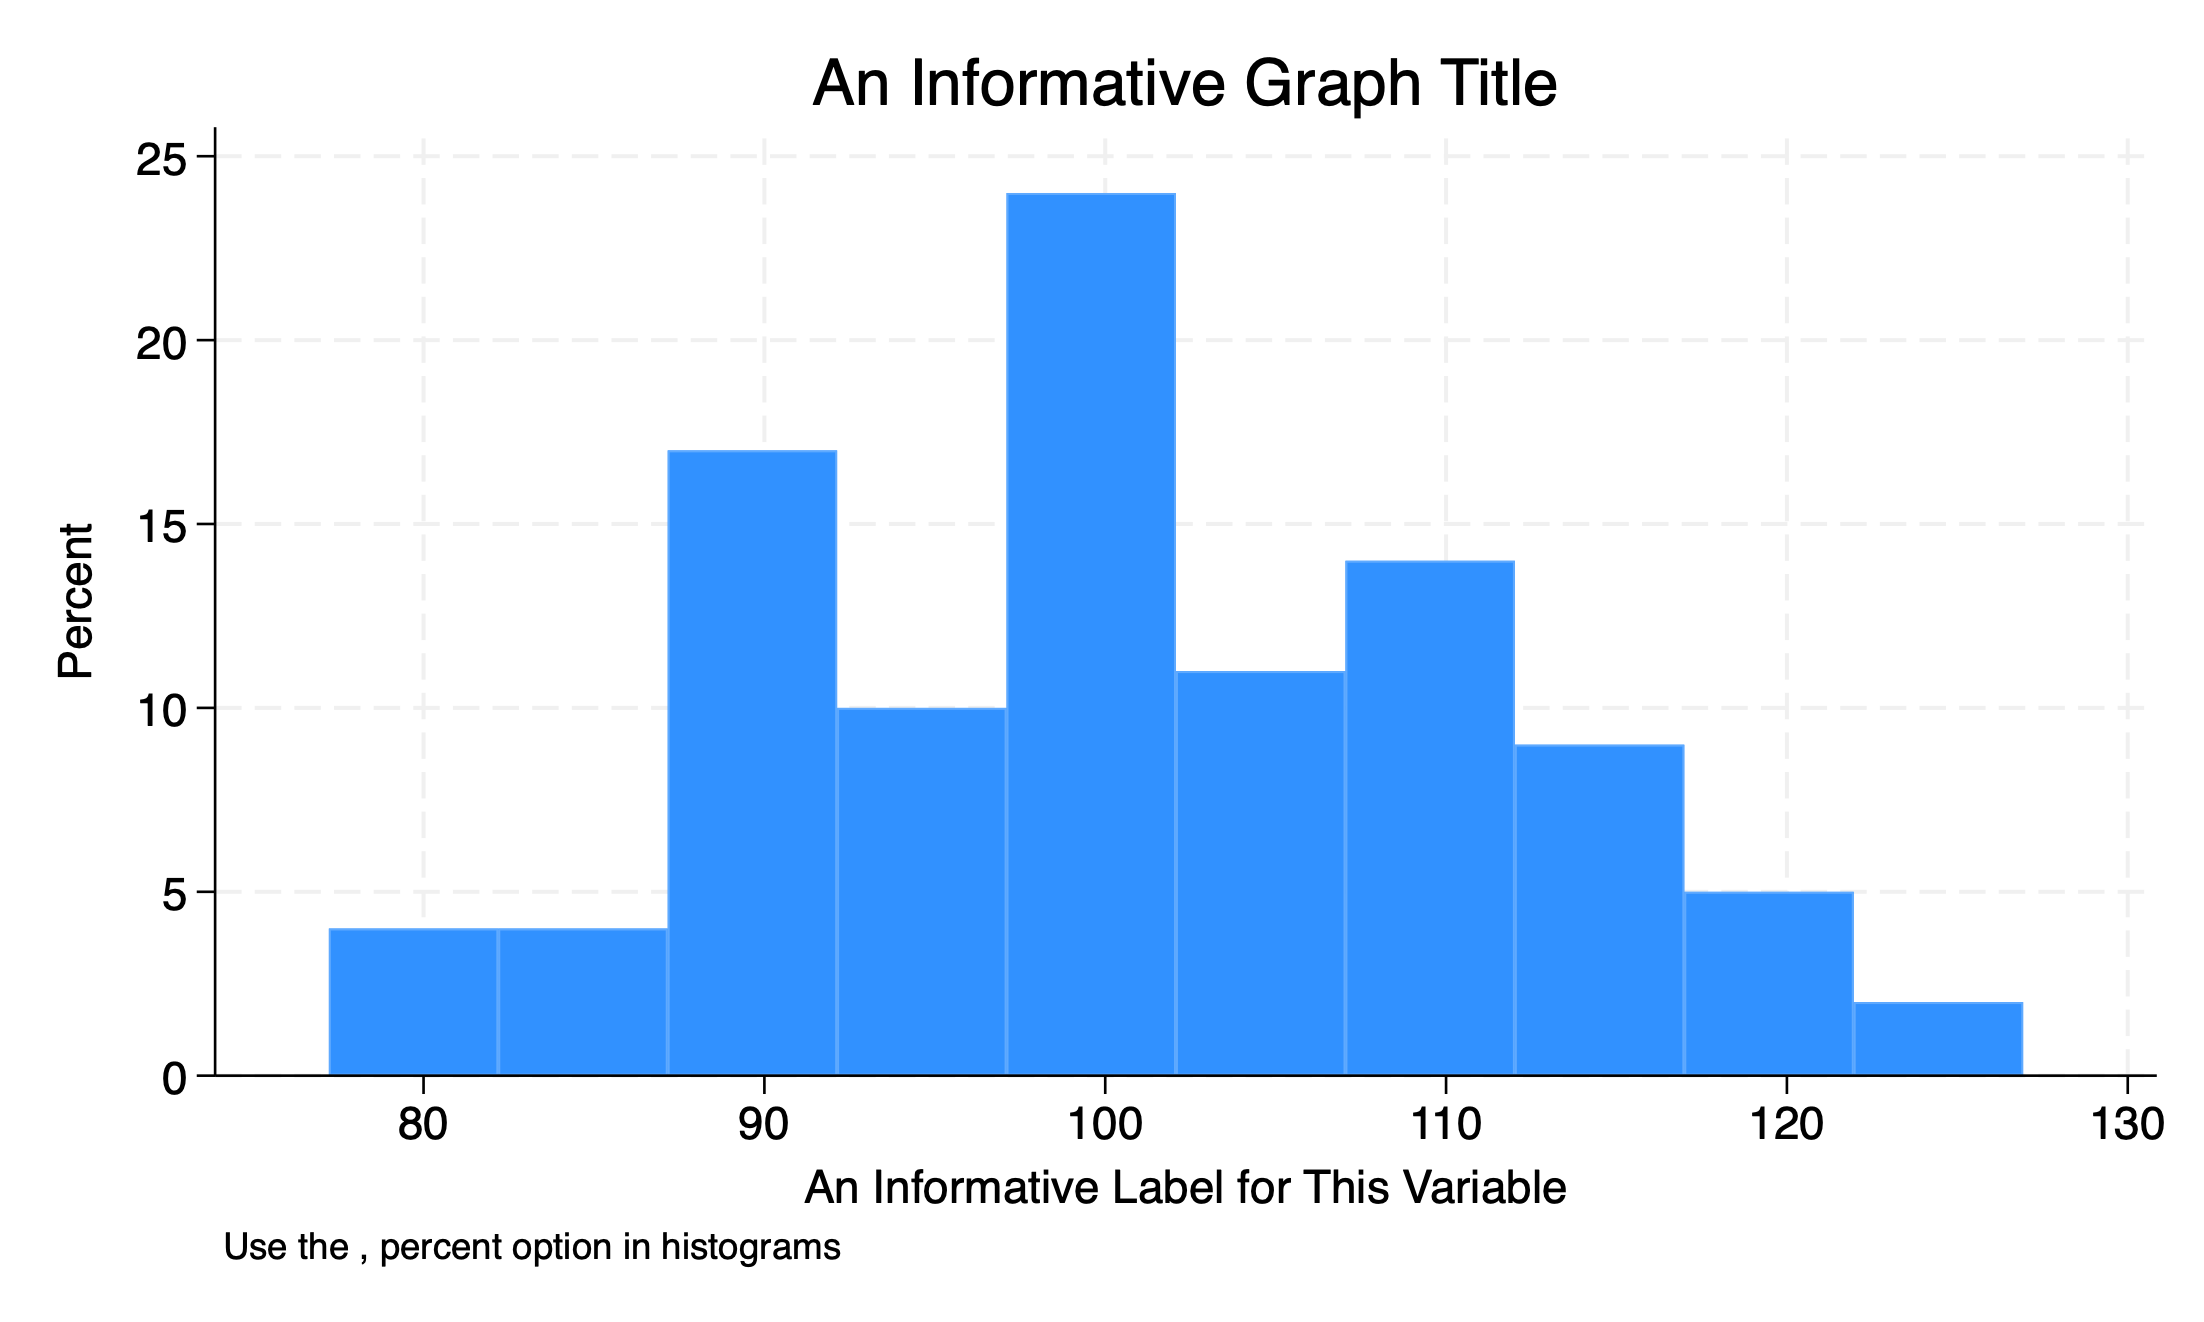
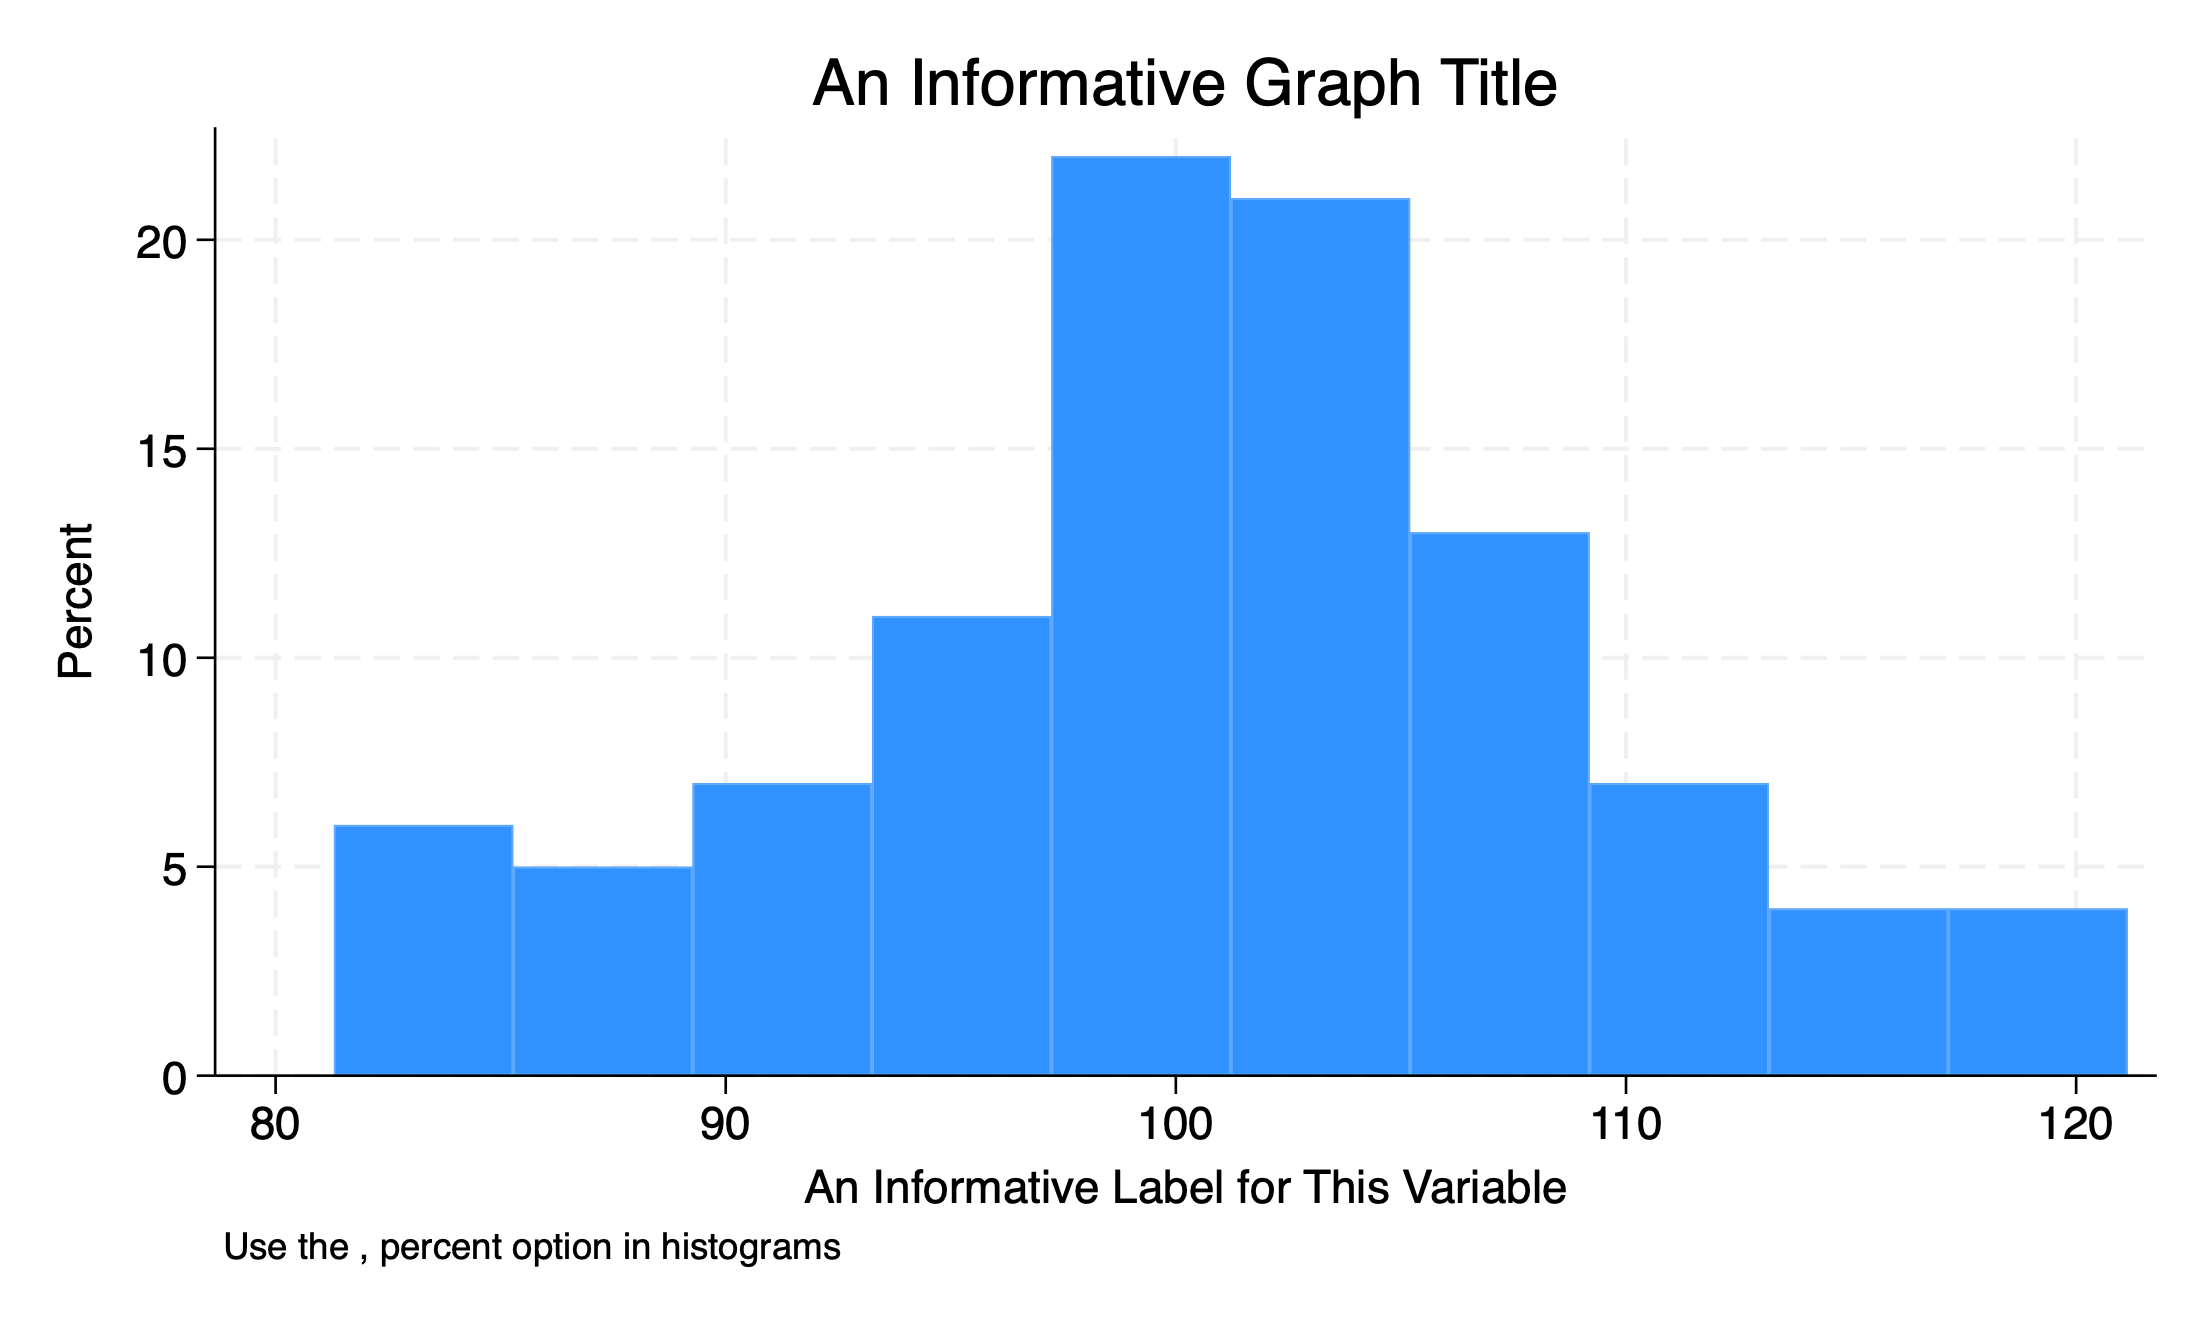
re-render w Stata and Statamarkdown

diff --git a/paper-template/cross-sectional-multilevel.html b/paper-template/cross-sectional-multilevel.html
@@ -188,13 +188,13 @@ ul.task-list li input[type="checkbox"] {
 <div class="cell-output cell-output-stdout">
 <pre><code>    Variable |        Obs        Mean    Std. dev.       Min        Max
 -------------+---------------------------------------------------------
-           x |        100    100.5775     10.4609   77.22126   126.9314
-           y |        100    107.5587    15.04167   75.46601   143.6488
+           x |        100    100.8225     8.71197    81.2936   121.1466
+           y |        100    107.6816    13.22501   69.53086   145.2771
 
           z |      Freq.     Percent        Cum.
 ------------+-----------------------------------
-          0 |         62       62.00       62.00
-          1 |         38       38.00      100.00
+          0 |         52       52.00       52.00
+          1 |         48       48.00      100.00
 ------------+-----------------------------------
       Total |        100      100.00</code></pre>
 </div>
@@ -211,12 +211,12 @@ ul.task-list li input[type="checkbox"] {
 <figcaption class="figure-caption">A scatterplot and linear fit</figcaption>
 </figure>
 </div>
-<p>What is the influence of each predictor variable in your relationship in terms of <span class="math inline">\(\beta\)</span> and p value? Please compute the unconditional intra-class correlation coefficient as part of your results.</p>
+<p>What is the influence of each predictor variable in your relationship in terms of <span class="math inline">\(\beta\)</span> and p value? <span style="color:red;">Please compute the unconditional intra-class correlation coefficient as part of your results.</span></p>
 <div class="cell">
 <div class="cell-output cell-output-stdout">
 <pre><code>Performing EM optimization Performing gradient-based optimization: 
-Iteration 0:  Log likelihood = -371.04347  
-Iteration 1:  Log likelihood = -371.04347  
+Iteration 0:  Log likelihood = -369.49222  
+Iteration 1:  Log likelihood = -369.49222  
 
 Computing standard errors ...
 
@@ -226,26 +226,26 @@ Group variable: u                                    Number of groups =     10
                                                                   min =     10
                                                                   avg =   10.0
                                                                   max =     10
-                                                     Wald chi2(2)     = 109.59
-Log likelihood = -371.04347                          Prob &gt; chi2      = 0.0000
+                                                     Wald chi2(2)     =  88.68
+Log likelihood = -369.49222                          Prob &gt; chi2      = 0.0000
 
 ------------------------------------------------------------------------------
            y | Coefficient  Std. err.      z    P&gt;|z|     [95% conf. interval]
 -------------+----------------------------------------------------------------
-           x |   1.005735   .0961335    10.46   0.000     .8173169    1.194153
-           z |   .2060553   1.964594     0.10   0.916    -3.644477    4.056588
-       _cons |   6.119992   10.35734     0.59   0.555    -14.18002    26.42001
+           x |   1.042158   .1125085     9.26   0.000      .821645     1.26267
+           z |  -.4646062   1.926578    -0.24   0.809    -4.240629    3.311417
+       _cons |   3.296319   12.19543     0.27   0.787    -20.60628    27.19891
 ------------------------------------------------------------------------------
 
 ------------------------------------------------------------------------------
   Random-effects parameters  |   Estimate   Std. err.     [95% conf. interval]
 -----------------------------+------------------------------------------------
 u: Identity                  |
-                  var(_cons) |   32.11255   18.14129      10.61224    97.17236
+                  var(_cons) |   10.23227   8.745244      1.916342    54.63499
 -----------------------------+------------------------------------------------
-               var(Residual) |   83.53032   12.45209      62.36676    111.8755
+               var(Residual) |   87.76707   13.10626      65.49703    117.6093
 ------------------------------------------------------------------------------
-LR test vs. linear model: chibar2(01) = 16.74         Prob &gt;= chibar2 = 0.0000</code></pre>
+LR test vs. linear model: chibar2(01) = 3.13          Prob &gt;= chibar2 = 0.0385</code></pre>
 </div>
 </div>
 </section>
